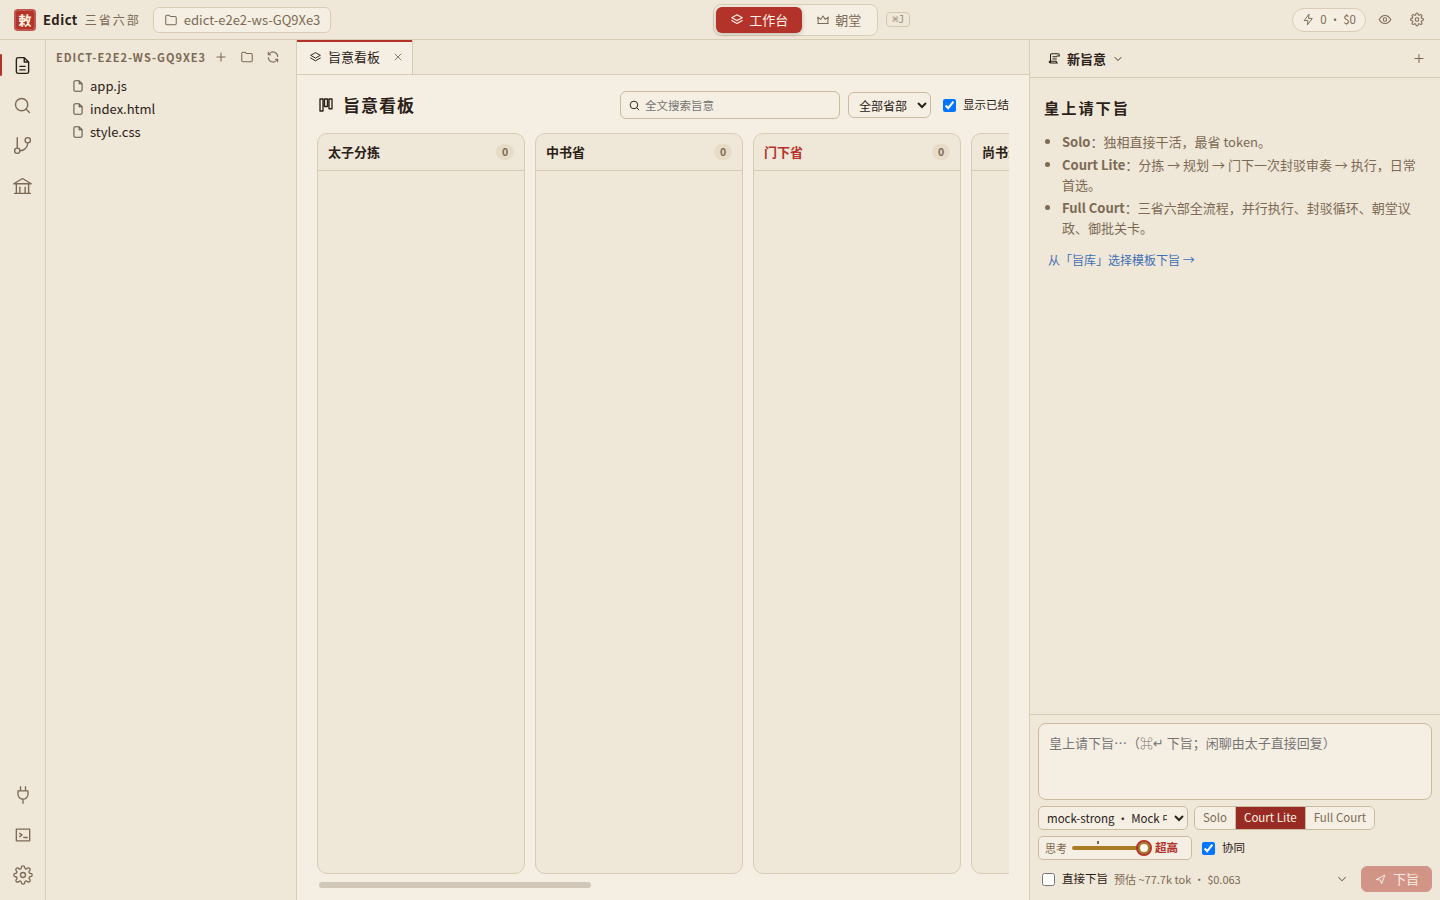
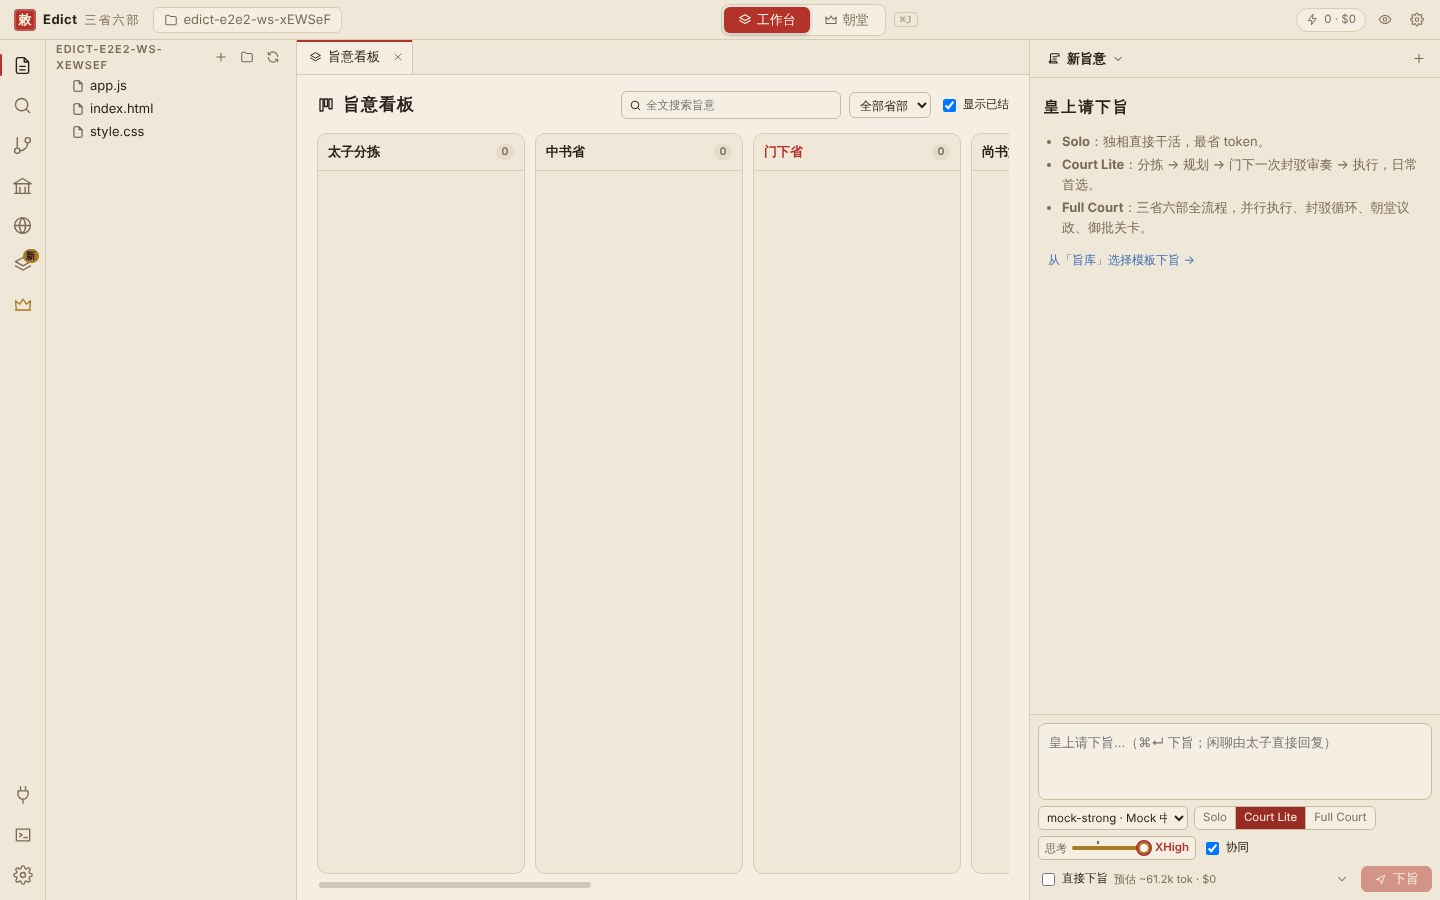
docs: README, docs and screenshots for 1.2
- README (en / zh-CN): 1.2 highlights in the existing format, updated
  thinking-slider line, three new screenshots.
- STATUS, TESTING, ARCHITECTURE, INSTALL_MAC brought up to 1.2.7.
- RELEASE_NOTES: generic example instead of a specific model name.

Claude-Session: https://claude.ai/code/session_01CBHWHDruHYK7LKqazDLVzi

diff --git a/README.zh-CN.md b/README.zh-CN.md
@@ -41,12 +41,22 @@
 - **局部恢复**：每一步都是持久化节点；失败 / 应用重启中断后只**重放失败节点**，不重放整棵 Agent 树。
 - **Editor**：文件树、多标签、Monaco 语法高亮与诊断、全局搜索替换（正则/大小写/全字/包含）、集成终端（无原生模块的 PTY）、问题面板、Git 状态 / diff / 暂存 / 提交；Agent 改动实时刷新到打开的文件。
 - **军机处全部面板**：旨意看板、省部调度、奏折阁、旨库（9 模板）、官员总览（Token 排行）、天下要闻、模型配置（每 Agent 独立热切换）、技能与 MCP、小任务 Sessions、上朝仪式、朝堂议政，另有审计日志与使用说明。
-- **思考程度滑块**（v1.1）：刻度就是所选模型自己的档位（如 低 / 中 / 高 / 超高 / 最高，自定义可加 ultra），**最右 = 该模型最高档**；按协议自动翻译为 `reasoning_effort`、`output_config.effort`、`thinking.budget_tokens`、`enable_thinking` 等；每位官员可单独设置。
+- **思考程度滑块**（v1.1）：刻度就是所选模型自己的档位，按服务检测结果显示，用 API 原名（None / Low / Medium / High / XHigh / Max / Ultra 等，自定义可加 ultra）；按协议自动翻译为 `reasoning_effort`、`output_config.effort`、`thinking.budget_tokens`、`enable_thinking` 等；每位官员可单独设置。
 - **可读的模型错误**（v1.1）：中转站「分组不支持该模型或接入方式」等配置错误不再盲目重试，直接给出原因、做法和「换模型重试」；「协议探测」一键找出哪种协议可用。
 - **HTML 预览与自测**（v1.1）：内置浏览器运行 Agent 生成的网页（控制台、视口尺寸、自动刷新、外网拦截）；Agent 用 `preview_page` 截图自验。
 - **技能与 MCP 中心**（v1.1）：技能增删改、启停、授权；MCP 使用 `mcp.json` 格式，支持 stdio / Streamable HTTP / SSE，逐工具风险与审批。
+- **协同设计**（v1.2）：三省六部流程变成有版本的「设计」，可复制、修改、按旨意固定、回滚，进行中的旨意不受影响。**流程画布**可视化编排：阶段为行，拖动排序、叠放即并行、拖审议卡的 ↺ 设定封驳退回到哪一步；也可用表单或 JSON 编辑。撤销 / 重做、⌘S、自动暂存、收藏、删除可撤销。内置三省六部保持只读。
+- **角色与官员单独选模型**（v1.2）：自己设计里的每个角色可指定模型和思考程度；内置官员在「模型配置」里一人一行设置。指定的模型被删除后自动改回强 / 经济路由，并在日志里提示。
+- **思考档位检测**（v1.2）：「检测思考档位」对每个档位发一个极小的请求，只保留服务接受的档位；新加的模型保存时自动检测。中转站什么值都接受时标「未能确认」。
+- **经济模型自动回退**（v1.2）：服务说不支持经济模型时，该官员自动改用主模型继续，并提示去「模型配置」修改。
+- **更精细的唐风朝堂，按宫殿布局走**（v1.2）：四个场景两倍精度重绘，官员 29 种动作跟随实际工作；新增**太和殿广场**，太和殿 → 广场 → 承天门 → 六部值房 可方向键或点击行走；悬停 / 点击官员与物件、奏折回放、昼夜与天气；每个设计可单独设置朝堂站位。
+- **悬停说明**（v1.2）：活动栏、军机处列表、朝堂工具栏和下旨框的每个控件，鼠标停一下就显示名称和一句话说明。
 - **多协议 / 多供应商**：OpenAI Chat Completions、Anthropic Messages、OpenAI Responses；DeepSeek / GLM / Qwen / Kimi / OpenAI / Anthropic / 本地 Ollama 预设（只预填 base_url，模型 id 由你填写或从服务拉取；**没有任何硬编码 Key**）。
 - **Token 经济性**：强 / 经济模型分级路由；仓库地图 + 符号大纲代替全量源码；文件按需读取；子 Agent 只回传结构化结论；稳定系统前缀（Anthropic `cache_control`，OpenAI/DeepSeek 前缀缓存）；长对话滚动压缩；封驳次数与预算上限（超限升级御批）；下旨前预估、每任务 / 每官员实时统计。
+
+| 协同设计画布 | 太和殿广场 | 官员独立模型 |
+|---|---|---|
+| ![协同设计画布](docs/screenshots/37-designs-canvas.png) | ![太和殿广场](docs/screenshots/38-court-guangchang.png) | ![官员独立模型](docs/screenshots/39-models-agent-models.png) |
 
 ## 安装（Apple Silicon）
 

diff --git a/docs/ARCHITECTURE.md b/docs/ARCHITECTURE.md
@@ -80,10 +80,16 @@
 
 Phaser 3.90：`pixelArt: true`、`roundPixels`、640×360 世界、**整数倍缩放**（窗口变化时取 `floor(min(W/640, H/360))`）；官员精灵开启 `pixelPerfect` 命中检测；气泡防重叠布局；文字使用 12px 像素中文字体（Fusion Pixel，OFL）。
 
-## 思考程度（v1.1）
+## 思考程度（v1.1，v1.2.7 起按检测）
 
-`src/shared/reasoning.ts` 把一个滑块翻译成各家参数。每个模型有自己的档位阶梯（`ModelInfo.reasoning`，缺省按模型 id 自动识别），UI 滑块的刻度就是这条阶梯，最右端恒为该模型最高档；请求时按「官员单独设置 › 旨意滑块（强模型 / Solo）› 模型默认」取值，再按档位名的等级就近落到该模型的阶梯上（例如 max 落到 o3 的 high）。`agentLoop.effortRequest` 生成 `extraBody`（合并进请求体）、必要时提高 `max_tokens`（不超过模型上限）并去掉 temperature；OpenAI Chat 推理模型自动改用 `max_completion_tokens`。服务报参数不支持时，本会话内对该模型自动停止发送思考参数。
+`src/shared/reasoning.ts` 把一个滑块翻译成各家参数。每个模型有自己的档位阶梯（`ModelInfo.reasoning`），UI 滑块的刻度就是这条阶梯，档位用 API 原名显示。阶梯来源：`Runtime.detectReasoning` 先发一个乱写的档位（被接受说明服务不校验，结果标为未能确认），再对 none / minimal / low / medium / high / xhigh / max / ultra 各发一个极小请求，只保留服务接受的档位，结果连同 `detected` 存进模型配置；没检测过时按模型 id 推测，名字也认不出且服务不校验时用通用五档。请求时按「官员单独设置 › 旨意滑块（强模型 / Solo）› 模型默认」取值，再按档位名的等级就近落到该模型的阶梯上（例如 max 落到 o3 的 high）。`agentLoop.effortRequest` 生成 `extraBody`（合并进请求体）、必要时提高 `max_tokens`（不超过模型上限）并去掉 temperature；OpenAI Chat 推理模型自动改用 `max_completion_tokens`。服务报参数不支持时，本会话内对该模型自动停止发送思考参数。
 
 ## 模型错误分类（v1.1）
 
 `classifyLlmError`（`src/main/llm/types.ts`）：参数不支持 / 配置（模型或接入方式不支持、404、400/422、中转站「分组」「无可用渠道」）/ 鉴权 / 额度为**不可重试**；429 / 408 / 5xx / 网络 / 空闲超时为可重试（指数退避 3 次）。失败节点带 `errorInfo`，界面据此给出做法与「换模型重试」（`retryNodeWithModel`：在该旨意上为该官员指定模型并局部重试）。
+
+## 协同设计（v1.2）
+
+- **设计对象**（`src/shared/design.ts`）：`CollabDesign` = 角色（职责、提示词、强 / 经济档、可选的指定模型与思考程度、工具权限、朝堂形象）+ 步骤（单人执行 / 规划拆解 / 审议 / 分派执行 / 汇总 / 皇上关卡，所属阶段、输入、并行、封驳去向与上限、超时）+ 规则（预算、封驳上限、并行度、终审、自愈）+ 可选的朝堂站位。`validateDesign` 保证阶段顺序、引用和封驳去向合法，阶段只能映射到受保护状态机的合法流转，没有绕过门下省的路径。
+- **设计库**（`src/main/runtime/designs.ts`）：`<dataDir>/designs/<id>/v<n>.json`，每次保存是新的不可变版本，另有索引记录当前版本、启停、收藏；删除移到 `designs/.trash` 可恢复。内置三省六部写在代码里、只读，仍走原生引擎；「复制」从它的声明式描述开始。朝堂站位单独存版本，不参与行为哈希。
+- **解释器**（`src/main/runtime/flow.ts`）：旨意下达时固定设计的版本（`Task.designSpec`），每一步变成持久化的 RunNode（每轮循环 id 稳定），所以局部重试和重启恢复与原生引擎一致；每步的阶段显示为对应的 Edict 状态，看板、朝堂、奏折阁保持同步。角色的模型按「该旨意指定 › 角色指定 › 强 / 经济路由」取，思考程度按「角色指定 › 旨意滑块（强档）› 模型默认」取。

diff --git a/docs/TESTING.md b/docs/TESTING.md
@@ -22,6 +22,12 @@
 - `tests/preview.test.ts`：预览文件服务（类型、index 回退、目录列表、中文路径）、拒绝 `.env` / 越界 / 符号链接逃逸；URL 策略；`preview_page` 在无桌面环境时如实报告不可用、在（替身）宿主下把控制台错误判为失败。
 - `tests/mcp.test.ts`：**真实子进程**（`tests/fixtures/mcp-echo-server.mjs`，按 MCP 规范写的测试服务）经 stdio 完成 initialize → 分页 tools/list → tools/call、服务端反向请求 roots/list；未信任不启动、命令改变需重新信任；风险分级、只读模式、官员授权、工具停用、高风险驳回；密钥移入钥匙串且仍能送达服务、不进审计；**真实本地 HTTP 服务**上的 Streamable HTTP（JSON 与 SSE 回包、`Mcp-Session-Id`、`MCP-Protocol-Version`）与旧版 HTTP+SSE 自动回退；Solo 官员（mock LLM）调用 MCP 工具。
 
+### v1.2 新增
+- `tests/designs.test.ts`：设计校验（阶段顺序、规划步骤、封驳去向、角色模型格式与思考程度）；设计库（内置只读、复制 → 版本 → 回滚、审计、无改动不出新版本）；进行中的旨意固定版本；复制的三省六部在解释器上跑出与原生引擎相同的流程、关卡与封驳循环；自定义角色的批评家循环；重启中断后只重跑该节点；朝堂站位单独存版本且不进行为哈希；收藏、删除进回收站与恢复；画布编辑辅助函数；**角色指定模型与思考程度**真实写进请求体，被删除的模型回退到路由且每道旨意只提示一次。
+- `tests/reasoning.test.ts`：经济模型被服务拒绝时自动换用主模型；**检测思考档位**：严格的服务只保留接受的档位（共 10 个极小请求），什么都接受的服务标为未能确认并用通用五档。
+- `e2e/features.ts`：协同设计列表 / 画布拖拽 / 表单 / 朝堂站位 / 保存 / 朝堂按设计布局；收藏、删除与撤销、⌘Z、Delete、Esc、⌘S、恢复暂存；悬停说明；官员模型竖排；角色指定模型与思考程度并显示在详情页；滑块英文档位与新说明文字；检测思考档位。
+- `e2e/court-smoke.ts`：五个场景截图；皇帝从太和殿走到广场、承天门、六部值房再走回来；悬停、菜单、赏赐动画。
+
 ## 3. 端到端 UI（mock LLM，Linux + Xvfb，真实 Electron）
 `npm run e2e`（`e2e/flow.ts`，Playwright `_electron`）：在 UI 中添加模型服务并测试连接 → 打开工作区 → 输入框下旨 → 审批卡片 → 御批结案 → 看板 → Editor 打开 Agent 产物、磁盘改动实时刷新 → 问题面板 TS 诊断 → 终端交互 → 全局搜索 → Full Court 在**朝堂奏折批阅浮层**中涂改方案并放行 → 六部值房 / 军机处 → 朝堂内准奏 → 议政中通过**皇上口谕框**插话 → Solo → 承天门上朝仪式 → 全部面板 → 审计校验 → Key 未落盘。截图输出到 `docs/screenshots/`，结果写入 `docs/screenshots/e2e-results.json`。
 
@@ -35,4 +41,4 @@ EDICT_PROTOCOL=openai-chat EDICT_TIER=lite npx tsx scripts/verify-real.ts
 脚本使用应用同一个运行时，完成后检查真实文件产物、节点 run ID 与审计链。**本构建环境未执行**（无 Key、无法访问模型服务）。
 
 ## 5. 安装包
-`python3 scripts/verify-dmg.py release/Edict-1.1.0-arm64.dmg release/stage`：解码 UDIF → 解析 ISO9660/RockRidge → 校验可执行位、框架符号链接、Applications 链接、代码封印存在、主程序与已签名副本逐字节一致。**真实 Mac 上的挂载 / Gatekeeper / 启动未验证。**
+`python3 scripts/verify-dmg.py release/Edict-1.2.7-arm64.dmg release/stage`：解码 UDIF → 解析 ISO9660/RockRidge → 校验可执行位、框架符号链接、Applications 链接、代码封印存在、主程序与已签名副本逐字节一致。1.2.x 的每个版本都在一台 Apple Silicon Mac 上打包，并从文件夹直接启动过；**DMG 挂载、拖入「应用程序」和 Gatekeeper 首次打开未验证。**

diff --git a/README.md b/README.md
@@ -47,10 +47,23 @@ Both modes are projections of the same main-process state: tasks, approvals, res
 
 ### New in 1.1.0
 
-- **Thinking-level slider.** Its steps are the selected model's own levels; **the far right is always that model's highest level**. Translated per protocol (`reasoning_effort`, `reasoning.effort`, `output_config.effort`, `thinking.budget_tokens`, `enable_thinking`, …), configurable per model and per official, with custom levels such as `ultra`.
+- **Thinking-level slider.** Its steps are the selected model's own levels (since 1.2.7 detected from the service and shown by their API names). Translated per protocol (`reasoning_effort`, `reasoning.effort`, `output_config.effort`, `thinking.budget_tokens`, `enable_thinking`, …), configurable per model and per official, with custom levels such as `ultra`.
 - **Readable model errors.** Configuration errors such as a relay's "this group doesn't support the model or access method" are no longer retried blindly; an error card explains the cause and offers **retry with another model**. **Protocol probe** tests Chat / Responses / Messages with and without thinking parameters.
 - **HTML preview and self-testing.** A sandboxed built-in browser runs generated pages with a console, device sizes, auto-reload and outbound-network blocking; agents verify their pages with the `preview_page` tool, which returns errors and a screenshot.
 - **Skills & MCP center.** Create, edit, enable and assign Skills; configure MCP servers with the  `mcp.json` format (stdio, Streamable HTTP, legacy SSE), with per-tool risk levels, approval and per-official grants. Local commands need your confirmation; secrets move into the macOS keychain.
+
+### New in 1.2
+
+- **Collaboration designs.** The Three Departments and Six Ministries flow is a versioned design you can copy, edit, pin per edict and roll back; running edicts keep the version they started with. Design your own on a **flow canvas** (phases as rows, drag to reorder, drop to run in parallel, drag a review's ↺ onto an earlier step to set where a rejection goes) or in a form / JSON view. Undo / redo, ⌘S, autosave, favourites and undoable delete. The built-in 三省六部 stays read-only.
+- **Per-role and per-official models.** Each role in your own design can use a specific model and thinking level; built-in officials are listed one per row in Models with their own model and level. If a chosen model is removed, the role falls back to strong / economy routing and the log says so.
+- **Thinking levels from the model itself.** **Detect thinking levels** sends one tiny request per level name and keeps the ones the service accepts; new models are detected when saved. Levels are shown by their API names (None · Minimal · Low · Medium · High · XHigh · Max · Ultra). A relay that accepts any value is marked "unconfirmed".
+- **Economy model fallback.** If the service says it doesn't offer the economy model, that official switches to your main model and carries on, with a notice.
+- **A finer Tang court that follows the palace layout.** Scenes redrawn at twice the detail; officials have 29 animations that follow their work. New **太和殿广场** scene; walk 太和殿 → 广场 → 承天门 → 六部值房 with the arrow keys or by clicking. Hover and click officials and objects, replay a finished edict, day / night and weather. Per-design court seating.
+- **Hover descriptions** on the activity bar, the 军机处 list, the court toolbar and every control in the edict box.
+
+| Flow canvas | 太和殿广场 | Per-official models |
+|---|---|---|
+| ![Collaboration design canvas](docs/screenshots/37-designs-canvas.png) | ![太和殿广场](docs/screenshots/38-court-guangchang.png) | ![Per-official models](docs/screenshots/39-models-agent-models.png) |
 
 ## Install (Apple Silicon)
 

diff --git a/docs/STATUS.md b/docs/STATUS.md
@@ -1,6 +1,18 @@
-# 现状盘点与交付清单（v1.1.0）
+# 现状盘点与交付清单（v1.2.7）
 
-## v1.1.0（本次）
+## v1.2.1 – v1.2.7（本次）
+根据使用反馈陆续新增，全部已实现并测试（逐版说明见 [RELEASE_NOTES.md](../RELEASE_NOTES.md)）：
+
+| 需求 | 实现 | 验证 |
+|---|---|---|
+| 三省六部之外，想自己设计多个 AI 怎么分工协作 | **协同设计**：流程是有版本的设计对象，可复制、修改、按旨意固定、回滚；流程画布 + 表单 + JSON 编辑；撤销 / 重做、⌘S、自动暂存、收藏、删除可撤销；内置三省六部只读；解释器复用节点化编排，局部重试与重启恢复照旧 | 单元 + 集成（mock）+ E2E |
+| 朝堂更精细、可以互动，并符合宫殿布局 | 四个场景两倍精度重绘，官员 29 种动作跟随工作；新增太和殿广场，路线 太和殿 → 广场 → 承天门 → 六部值房；悬停 / 点击官员与物件、奏折回放、昼夜与天气；每个设计可设朝堂站位 | E2E + 朝堂行走测试 |
+| 协同模式报 HTTP 503，Solo 正常 | 经济模型被服务拒绝时，该官员自动换用主模型并提示；本次会话内跳过坏模型 | 集成（mock 中转站） |
+| 各个按钮不知道是干什么的 | 活动栏、军机处列表、朝堂工具栏、下旨框所有控件都有悬停说明 | E2E |
+| 官员模型选择栏太挤；自己的设计里每个角色要能选模型 | 官员一人一行；角色可指定模型与思考程度，模型被删除后回退到路由并提示 | 集成（校验真实请求体）+ E2E |
+| 思考档位应按模型实际支持的来，用英文原名 | 「检测思考档位」逐个试档位，只保留服务接受的；新模型保存时自动检测；中转站不校验时标未能确认 | 集成（mock 严格 / 宽松服务）+ E2E |
+
+## v1.1.0
 根据使用反馈新增，全部已实现并测试：
 
 | 需求 | 实现 | 验证 |

diff --git a/RELEASE_NOTES.md b/RELEASE_NOTES.md
@@ -21,7 +21,7 @@ Release descriptions (English and Chinese) are on the [GitHub Releases page](htt
 ## 1.2.6
 
 **What's new**
-- **Per-official models are easier to read**: 模型配置 → 官员独立模型与思考程度 now lists the officials one per row instead of a cramped three-column grid. Each row shows the official and their duty, 强 / 经济, a wide model dropdown and a thinking-level dropdown. The default option names the model it follows, e.g. 跟随经济路由（gpt-5.6-luna）.
+- **Per-official models are easier to read**: 模型配置 → 官员独立模型与思考程度 now lists the officials one per row instead of a cramped three-column grid. Each row shows the official and their duty, 强 / 经济, a wide model dropdown and a thinking-level dropdown. The default option names the model it follows, e.g. 跟随经济路由（<your economy model>）.
 - **Choose a model and thinking level for each role in your own collaboration designs**:
   - The built-in 三省六部 stays read-only. Copy it, or create a new design, and each role's form has two new fields:
     - **模型**: 跟随强/经济路由 (default) or any model from 模型配置.

diff --git a/docs/INSTALL_MAC.md b/docs/INSTALL_MAC.md
@@ -4,7 +4,7 @@
 > 只从你信任的来源获取本安装包。仅支持 Apple Silicon（M1 及以后），不支持 Intel Mac。
 
 ## 安装
-1. 双击 `Edict-1.1.0-arm64.dmg`，把 **Edict.app** 拖到 **Applications（应用程序）**。
+1. 双击 `Edict-1.2.7-arm64.dmg`，把 **Edict.app** 拖到 **Applications（应用程序）**。
 2. 首次打开时 macOS 会提示「无法验证开发者」或「Apple 无法检查其是否包含恶意软件」：
    - 点「完成 / 取消」；
    - 打开 **系统设置 → 隐私与安全性**，在页面下方找到 “已阻止使用 Edict” → 点 **仍要打开**，输入密码确认；
